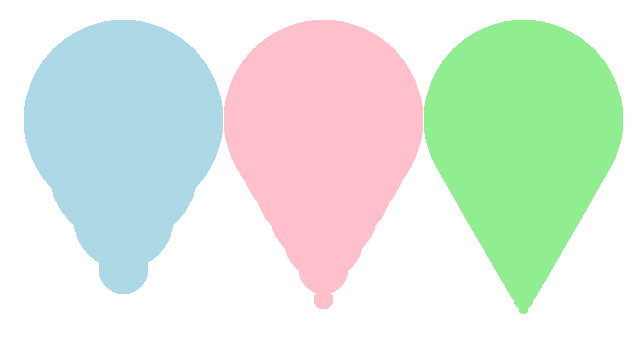
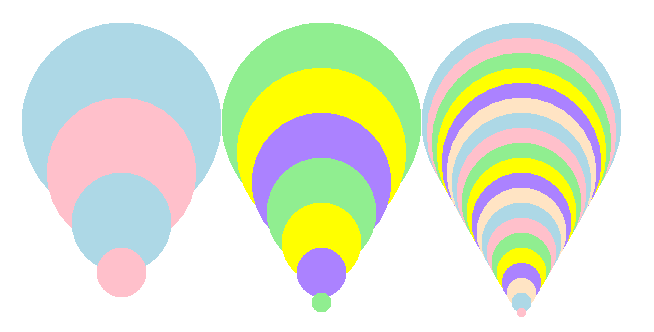
up

diff --git a/docs/turtle/files/dots5.py b/docs/turtle/files/dots5.py
@@ -10,14 +10,17 @@ def draw_dot(t, centre=(0, 0), size=20, color="blue"):
     t.dot(size, color)
 
 
-def draw_dot_stack(t, centre, angle, size, color):
-    t.pu()
-    t.goto(centre)
-    t.seth(angle)
-    t.fd(size)
-    dot_centre = t.pos()
-    draw_dot(t, centre=dot_centre, size=size, color=color)
-
+def draw_dot_stack(t, centre, angle, size, step, colors):
+    col_i = 0
+    for i in range(size, 0, -step):
+        t.pu()
+        t.goto(centre)
+        t.seth(angle)
+        t.fd(i)
+        dot_centre = t.pos()
+        draw_dot(t, centre=dot_centre, size=i, color=colors[col_i])
+        col_i = (col_i + 1) % len(colors)
+        print(col_i, end=" ")
 
 s = turtle.Screen()
 s.bgcolor("white")
@@ -32,12 +35,9 @@ t.ht()
 
 colors = ["light blue", "pink", "light green", "yellow", "MediumPurple1", "bisque"]
 
-for i in range(200, 5, -50):
-    draw_dot_stack(t, centre=(-200, -100), angle=90, size=i, color=colors[0])
-for i in range(200, 5, -30):
-    draw_dot_stack(t, centre=(0, -100), angle=90, size=i, color=colors[1])
-for i in range(200, 5, -10):
-    draw_dot_stack(t, centre=(200, -100), angle=90, size=i, color=colors[2])
+draw_dot_stack(t, centre=(-200, -100), angle=90, size=200, step = 50, colors=colors[0:2])
+draw_dot_stack(t, centre=(0, -100), angle=90, size=200, step = 30, colors=colors[2:5])
+draw_dot_stack(t, centre=(200, -100), angle=90, size=200, step = 10, colors=colors)
 
 s.update()
 s.exitonclick()

diff --git a/docs/turtle/turtle_dots.rst b/docs/turtle/turtle_dots.rst
@@ -233,6 +233,105 @@ Exploring dot stacks further
 
 ----
 
+
+Icecream cones from dot stacks
+--------------------------------------------------
+
+.. image:: images/cones_by_dot_stacks.png
+    :scale: 75 %
+    :align: center
+    :alt: dot_stack_1
+
+| Make use of the ``draw_dot`` definition to approximate a cone shape by drawing a series of circles decreasing in size as they more further from the centre of the largest circle.
+
+
+.. admonition:: Task
+
+    .. tab-set::
+
+        .. tab-item:: Q
+
+            | Complete the skeleton code to draw a a series of 3 cones which approximate a cone shape as in the image above.
+
+            .. code-block:: python
+
+                import turtle
+
+
+                # def draw_dot...
+
+
+                # def draw_dot_stack...
+
+
+                # s = turtle.Screen() ...
+
+
+                # t = turtle.Turtle()
+
+
+                # colors = ...
+
+                for i in range(200, 5, -XXX):
+                    draw_dot_stack(t, centre=(-200, -100), angle=90, size=i, color=colors[0])
+                for i in range(200, 5, -XXX):
+                    draw_dot_stack(t, centre=(0, -100), angle=90, size=i, color=colors[1])
+                for i in range(200, 5, -XXX):
+                    draw_dot_stack(t, centre=(200, -100), angle=90, size=i, color=colors[2])
+
+                s.update()
+                s.exitonclick()
+
+        .. tab-item:: Ans
+
+            | Completed code to draw a a series of 3 cones which approximate a cone shape as in the image above.
+
+            .. code-block:: python
+
+                import turtle
+
+
+                def draw_dot(t, centre=(0, 0), size=20, color="blue"):
+                    t.pu()
+                    t.goto(centre)
+                    t.pd()
+                    t.dot(size, color)
+
+
+                def draw_dot_stack(t, centre, angle, size, color):
+                    t.pu()
+                    t.goto(centre)
+                    t.seth(angle)
+                    t.fd(size)
+                    dot_centre = t.pos()
+                    draw_dot(t, centre=dot_centre, size=size, color=color)
+
+
+                s = turtle.Screen()
+                s.bgcolor("white")
+                s.title("Grid")
+                s.setup(width=850, height=600, startx=0, starty=0)
+                s.tracer(0, 0)
+                s.colormode(255)
+
+                t = turtle.Turtle()
+                t.speed(0)
+                t.ht()
+
+                colors = ["light blue", "pink", "light green", "yellow", "MediumPurple1", "bisque"]
+
+                for i in range(200, 5, -50):
+                    draw_dot_stack(t, centre=(-200, -100), angle=90, size=i, color=colors[0])
+                for i in range(200, 5, -30):
+                    draw_dot_stack(t, centre=(0, -100), angle=90, size=i, color=colors[1])
+                for i in range(200, 5, -10):
+                    draw_dot_stack(t, centre=(200, -100), angle=90, size=i, color=colors[2])
+
+                s.update()
+                s.exitonclick()
+                
+----
+
 Using the Draw_dot: hexagonal array
 --------------------------------------------------
 
@@ -396,115 +495,3 @@ Using the Draw_dot: hexagonal array
                 s.exitonclick()
 
 
-----
-
-Icecreem cones from dot stacks
---------------------------------------------------
-
-.. image:: images/cones_by_dot_stacks.png
-    :scale: 75 %
-    :align: center
-    :alt: dot_stack_1
-
-| Make use of the ``draw_dot`` definition to approximate a cone shape by drawing a series of circles decreasing in size as they more further from the centre of the largest circle.
-
-
-.. admonition:: Task
-
-    .. tab-set::
-
-        .. tab-item:: Q
-
-            | Complete the code to draw a a series of 3 cones which approximate a cone shape as in the image above.
-
-            .. code-block:: python
-
-                import turtle
-
-
-                def draw_dot(t, centre=(0, 0), size=20, color="blue"):
-                    t.pu()
-                    t.goto(centre)
-                    t.pd()
-                    t.dot(size, color)
-
-
-                def draw_dot_stack(t, centre, angle, size, color):
-                    t.pu()
-                    t.goto(centre)
-                    t.seth(angle)
-                    t.fd(size)
-                    dot_centre = t.pos()
-                    draw_dot(t, centre=dot_centre, size=size, color=color)
-
-
-                s = turtle.Screen()
-                s.bgcolor("white")
-                s.title("Grid")
-                s.setup(width=850, height=600, startx=0, starty=0)
-                s.tracer(0, 0)
-                s.colormode(255)
-
-                t = turtle.Turtle()
-                t.speed(0)
-                t.ht()
-
-                colors = ["light blue", "pink", "light green", "yellow", "MediumPurple1", "bisque"]
-
-                for i in range(200, 5, -XXX):
-                    draw_dot_stack(t, centre=(-200, -100), angle=90, size=i, color=colors[0])
-                for i in range(200, 5, -XXX):
-                    draw_dot_stack(t, centre=(0, -100), angle=90, size=i, color=colors[1])
-                for i in range(200, 5, -XXX):
-                    draw_dot_stack(t, centre=(200, -100), angle=90, size=i, color=colors[2])
-
-                s.update()
-                s.exitonclick()
-
-        .. tab-item:: Ans
-
-            | Completed code to draw a a series of 3 cones which approximate a cone shape as in the image above.
-
-            .. code-block:: python
-
-                import turtle
-
-
-                def draw_dot(t, centre=(0, 0), size=20, color="blue"):
-                    t.pu()
-                    t.goto(centre)
-                    t.pd()
-                    t.dot(size, color)
-
-
-                def draw_dot_stack(t, centre, angle, size, color):
-                    t.pu()
-                    t.goto(centre)
-                    t.seth(angle)
-                    t.fd(size)
-                    dot_centre = t.pos()
-                    draw_dot(t, centre=dot_centre, size=size, color=color)
-
-
-                s = turtle.Screen()
-                s.bgcolor("white")
-                s.title("Grid")
-                s.setup(width=850, height=600, startx=0, starty=0)
-                s.tracer(0, 0)
-                s.colormode(255)
-
-                t = turtle.Turtle()
-                t.speed(0)
-                t.ht()
-
-                colors = ["light blue", "pink", "light green", "yellow", "MediumPurple1", "bisque"]
-
-                for i in range(200, 5, -50):
-                    draw_dot_stack(t, centre=(-200, -100), angle=90, size=i, color=colors[0])
-                for i in range(200, 5, -30):
-                    draw_dot_stack(t, centre=(0, -100), angle=90, size=i, color=colors[1])
-                for i in range(200, 5, -10):
-                    draw_dot_stack(t, centre=(200, -100), angle=90, size=i, color=colors[2])
-
-                s.update()
-                s.exitonclick()
